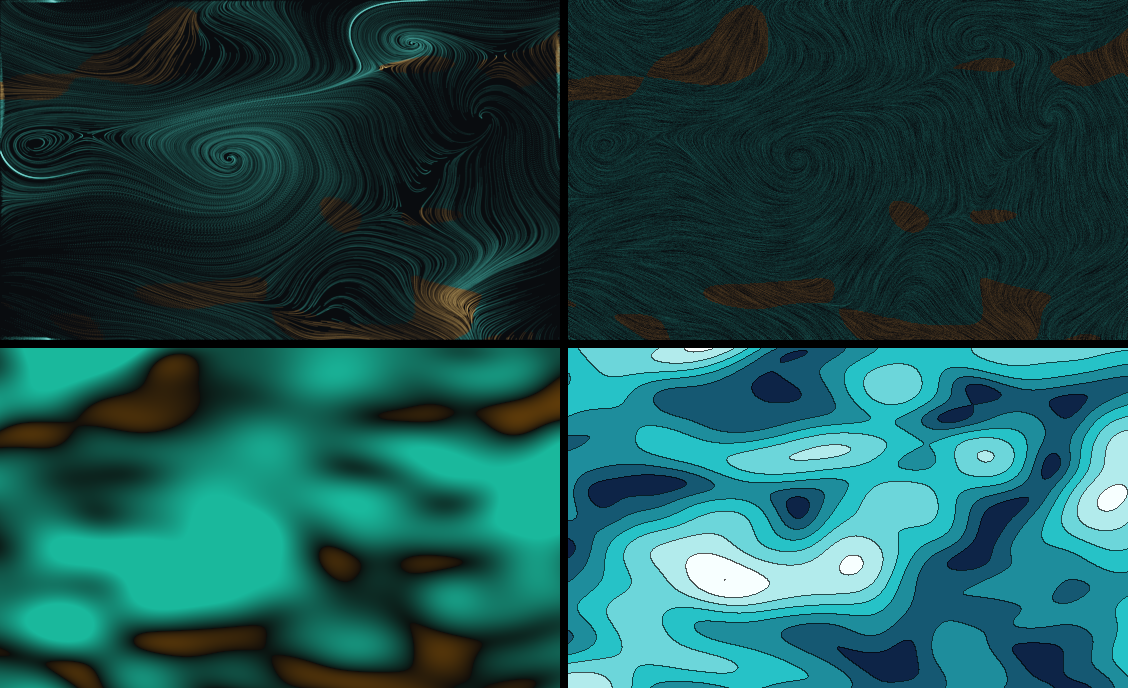
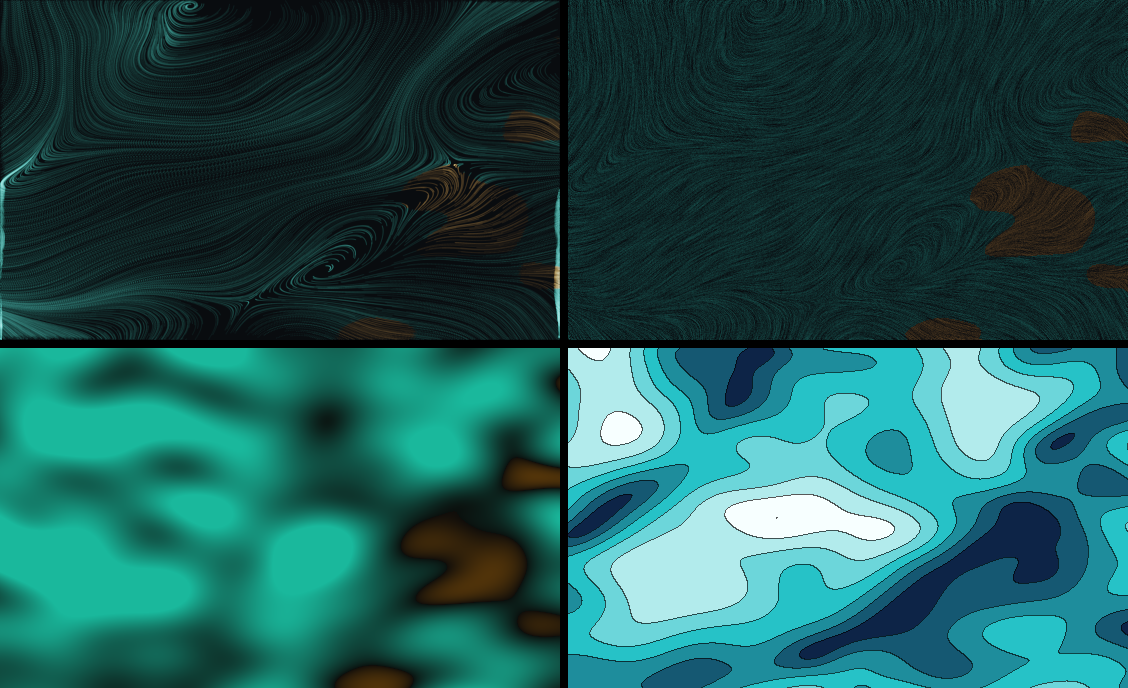
assets: knob GIFs for ellipticity, grain and flutter (+ refresh the stale ones)
The README documents each dial with a sweep GIF; three dials shipped without one.

- knob-ellipticity.gif — circular tubes to linear sheets, spectrum and helicity held.
- knob-grain.gif — the world grain combing the texture, d = 0 → 0.9. Rendered at
  ellipticity 0.35 deliberately: a fully circular field is already at the
  polarization-degree ceiling, so the grain would be clamped almost to nothing. The
  README says so rather than quietly picking a flattering setting.
- knob-flutter.gif — flutter is a *time* effect that vanishes at t = 0, so a dial sweep
  would show nothing honest. This one animates time instead, two panels side by side:
  same field and seed, churn alone on the left, flutter 0.9 on the right. The window
  starts at t = 0.35 for the same reason — a frame at t = 0 shows two identical panels
  and reads as a broken image.

`grid()` gained an optional time argument (default 0, so every existing call is
unchanged) since the flutter frames need t > 0.

The re-render also rewrote six pre-existing assets, and that is a fix rather than churn:
they were last rendered on 2026-07-07, and the coherence algorithm changed on 2026-07-16
(133c9c2, before any of this work). The shipped GIFs have been showing a field the
library no longer produces. Verified deterministic — two consecutive renders are
byte-identical to each other, and differ only from the old committed ones.

Also registers rings/polarization/two-scale in the README example table, which the
[…]

diff --git a/packages/js/README.md b/packages/js/README.md
@@ -180,6 +180,35 @@ extremes every vortex tube corkscrews the same way (a Beltrami flow). Watch the 
 sweep runs from `0` (even, random) to `1` (energy concentrates into coherent structures) and back.
 The overall busyness never changes, only how arranged it is — the one axis plain curl-noise doesn't have.
 
+### Ellipticity — tubes vs sheets
+
+<img src="https://raw.githubusercontent.com/rifmj/helix-noise/main/packages/js/assets/knob-ellipticity.gif" alt="Ellipticity sweeping from circular tubes to linear sheets" width="100%">
+
+`ellipticity` (`ε ∈ [0, 1]`) is *polarization*: how each wave swirls, as opposed to where it points
+(`anisotropy`) or which way it winds (`helicity`). The sweep runs from `1` — circular waves,
+corkscrew filaments, the classic look — down to `0`, where each wave is a flat linear oscillation and
+the texture laminates into sheets. Spectrum and helicity slider are held fixed throughout. Note that
+at `ε = 0` the waves are achiral, so the helicity slider goes visually inert.
+
+### Grain — combing the texture along an axis
+
+<img src="https://raw.githubusercontent.com/rifmj/helix-noise/main/packages/js/assets/knob-grain.gif" alt="Grain strength sweeping from none to strongly combed along the vertical axis" width="100%">
+
+`polarizationAxis` picks a world direction and `polarizationBias` (`d`) says how hard to comb the
+texture along it. The sweep runs `d = 0 → 0.9` along the vertical axis. It is rendered at
+`ellipticity: 0.35` on purpose: a wave can only be so polarized, so `d` and the chirality are jointly
+capped at `√(d² + χ²) ≤ 0.97`, and a fully circular field has almost no room left for grain.
+
+### Flutter — shimmer on top of the drift
+
+<img src="https://raw.githubusercontent.com/rifmj/helix-noise/main/packages/js/assets/knob-flutter.gif" alt="Two fields side by side over time, left with churn only, right also fluttering" width="100%">
+
+Unlike the dials above, `flutter` is a *time* effect, so this one animates **time**, not the knob:
+both panels are the same field with the same seed, running from `t = 0.35` to `t = 1.7`. The left has
+churn alone and drifts smoothly; the right adds `flutter: 0.9` and shimmers, because part of the local
+strain fluctuates far faster than an eddy turns over. At `t = 0` the two are identical by
+construction — flutter never touches the static field.
+
 ## Time — the field flows by itself
 
 Every sampler takes an optional trailing `t`. The evolution is not a generic 4-D noise scroll — it
@@ -295,7 +324,10 @@ or jump straight in (they're plain HTML files in [`examples/`](examples/), no bu
 | [Vortex tubes](https://rifmj.github.io/helix-noise/examples/tubes.html) | three.js streamtubes — at `helicity ±1` every tube corkscrews the same way |
 | [Kelp forest](https://rifmj.github.io/helix-noise/examples/kelp.html) | sway driven by the field's own `churn` — set it to 0 and the forest freezes |
 | [Ebru marbling](https://rifmj.github.io/helix-noise/examples/ebru.html) | ink stretches and folds but never tears — incompressibility made visible |
-| [Q-criterion isosurfaces](https://rifmj.github.io/helix-noise/examples/qcriterion.html) | marching cubes over the vortex skeleton; raise `coherence` and the tangle condenses |
+| [Vortex rings](https://rifmj.github.io/helix-noise/examples/rings.html) | closed-form structures: a smoke ring flying at Kelvin's speed, a head-on collision, and `compose(ring, noise)` |
+| [Polarization grid](https://rifmj.github.io/helix-noise/examples/polarization.html) | nine fields on one seed — `ellipticity` (tubes → sheets) against the world `grain`, with the measured ρ in each corner |
+| [Two-scale recipe](https://rifmj.github.io/helix-noise/examples/two-scale.html) | an `abc()` backbone carrying `shellPeak` detail; the detail's vorticity budget stays fixed as you slide its scale |
+| [Vortex skeleton](https://rifmj.github.io/helix-noise/examples/qcriterion.html) | marching cubes over `qCriterion` / `lambda2` / `stretching`, all from the analytic gradient; raise `coherence` and the tangle condenses |
 | [Flow around an obstacle](https://rifmj.github.io/helix-noise/examples/obstacle.html) | a cylinder described only by its SDF — free-slip via `withBoundary()` |
 | [Atom engine](https://rifmj.github.io/helix-noise/examples/atoms.html) | regional handedness via `helicityField`, one seamless field |
 | [Jetstream cirrus](https://rifmj.github.io/helix-noise/examples/cirrus.html) | one `anisotropy` dial: wisps combed along the jet, or billow bands across it |
